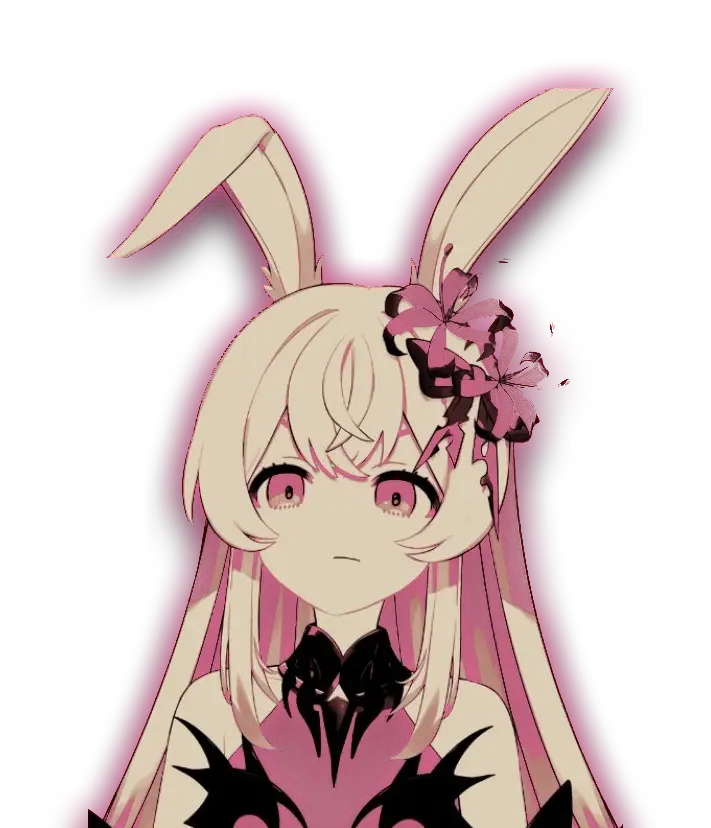
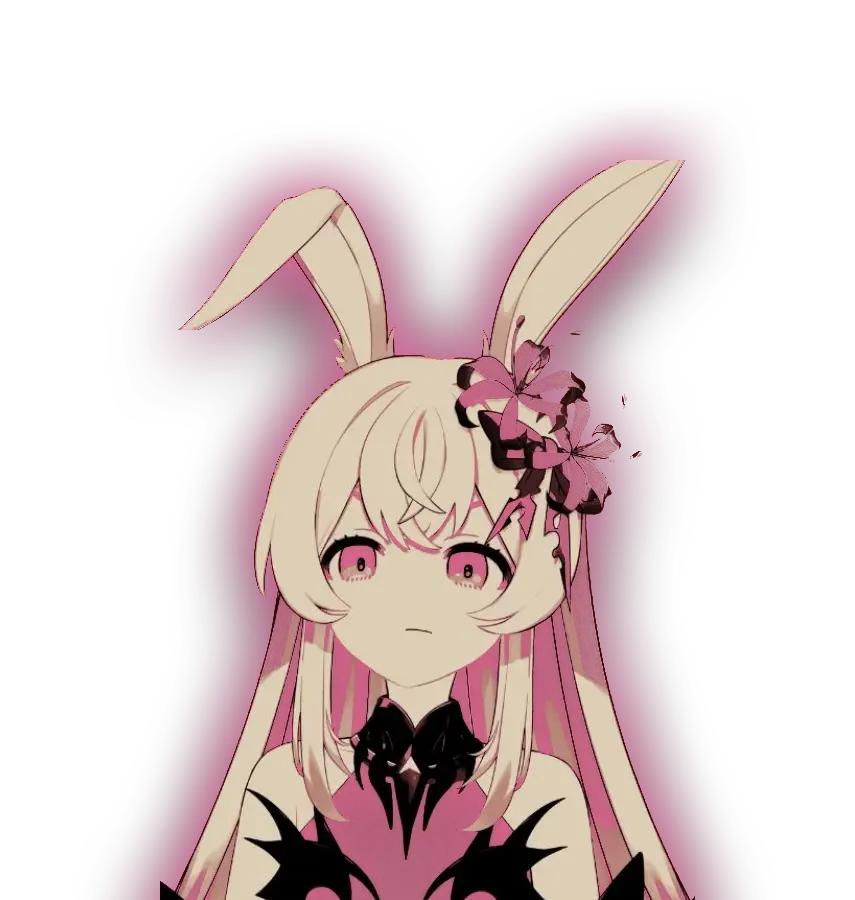
fix(gacha): the reel figure's baked glow was half its intended blur — drop-shadow's length IS sigma
The bake divided both blur radii by two, on the reasonable-sounding belief that `drop-shadow()`
inherits box-shadow's "radius = 2 sigma". It does not, and this is measured rather than argued:
on a hard-edged square in headless Chromium AND Gecko, `drop-shadow(0 0 30px)` is pixel-identical
to `blur(30px)` (RMSE 0.0000, alpha under 0.01 at 62.4 px) and nothing like `blur(15px)` (RMSE
0.0586, under 0.01 at 30.5 px). So the css sigmas are 30 and 22, and in asset space 48 and 35.

Profiled against the prototype's real CSS at the same on-screen character size — mean composite
alpha in distance bands around the silhouette — the shipped asset held ~0.8x of the prototype's
glow within 16 px and then fell off a cliff: 0.19x in the 16-24 px band, 0.04x at 24-32, ZERO
past 32 px where the prototype paints out to ~64. The corrected bake tracks it through the bands
that carry the look (1.25 / 1.24 / 1.07 / 0.87 to 32 px) with a thinner far tail (0.51x at 32-48,
where alpha is ~0.03 — Skia's blur approximation is tighter than a true Gaussian).

Baking the real filter CHAIN (the pink shadow does see the dark one's output) was tried and
rejected on the same measurement: two Gaussian stages compound and overshoot to 1.4-1.5x the
prototype's alpha in every near band. Two independent shadows of the figure is the closer
reproduction, which is all the bake is for.

The bigger blur needs a bigger canvas (PAD 88 to 160, 855x900, ~107 KB), so the character is now
[…]

diff --git a/frontend/src/themes/gacha/art.ts b/frontend/src/themes/gacha/art.ts
@@ -35,18 +35,41 @@
 // `lyra-cutout.webp` is not a resize: it is the reel FIGURE, and its glow is baked in at export time
 // because the §10.1 rider bans the prototype's runtime `filter: drop-shadow(0 10px 30px #0009)
 // drop-shadow(0 0 22px #ff6cae66)` — two static shadows on a large moving image re-rasterize every frame
-// on Gecko. The bake reproduces exactly those two shadows, pre-divided by the figure's DISPLAY scale
-// (~0.65 of the asset at the `--gc-figure-h` default), so what lands on screen matches the prototype's
-// CSS: a CSS blur radius R is a Gaussian of sigma R/2, hence 30px→15→23 and 22px→11→17 in asset space,
-// and the dark shadow's 10px y-offset becomes 15. `PAD` is the canvas the blur needs (3 sigma + offset),
-// added at the top and sides only — the figure is bottom-anchored, so a bottom margin would just lift it
-// off its floor. 711x828, ~97 KB.
+// on Gecko. The bake reproduces those two shadows at the figure's DISPLAY scale (0.622 css px per asset px:
+// a 460 px character from a 740 px source, the `--gc-figure-h` default), so what lands on screen matches
+// what the prototype's CSS would have painted.
+//
+// THE SIGMA, settled by measurement (the G4 Codex round — the first bake halved it, and the halo shipped at
+// half its intended reach). `drop-shadow()`'s blur length IS the Gaussian sigma; it does NOT follow
+// box-shadow's sigma = R/2, which is what the two looking alike invites you to assume. On a hard-edged
+// square, `drop-shadow(0 0 30px)` is PIXEL-IDENTICAL to `blur(30px)` (RMSE 0.0000, alpha under 0.01 at
+// 62.4 px) in BOTH Chromium and Gecko, and nothing like `blur(15px)` (RMSE 0.0586, under 0.01 at 30.5 px).
+// So the css sigmas here are 30 and 22 — not 15 and 11 — and in asset space 30/0.622→48 and 22/0.622→35,
+// with the dark shadow's 10 px y-offset becoming 16.
+//
+// What that was worth, profiled against the prototype's real CSS at the same on-screen character size (mean
+// composite alpha in distance bands around the silhouette): the halved bake held ~0.8x of the prototype's
+// glow within 16 px and then collapsed — 0.19x in the 16-24 px band, 0.04x at 24-32, ZERO past 32 px, where
+// the prototype still paints out to ~64. With the sigmas above it tracks the prototype through the bands
+// that carry the look (1.25 / 1.24 / 1.07 / 0.87 out to 32 px) and keeps a thinner far tail (0.51x at
+// 32-48 px, where alpha is ~0.03) — the one visible residue of Skia's tighter blur approximation.
+//
+// Filters do CHAIN — the pink `drop-shadow()` sees the dark one's OUTPUT, so it is technically cast by the
+// figure PLUS its dark shadow. Baking that faithfully was tried and REJECTED on the same measurement: two
+// true-Gaussian stages compound, and it overshoots to 1.4-1.5x the prototype's mean alpha in every near band
+// (1.39x total glow ink, against 1.12x for the two-independent-shadows form below). Reproducing what the
+// prototype PAINTS is the only thing this bake is for, so the simpler form stays.
+//
+// `PAD` is the canvas the blur needs (3 sigma + offset), added at the top and sides only — the figure is
+// bottom-anchored, so a bottom margin would just lift it off its floor. 855x900, ~107 KB. Growing the pad is
+// what moved `--gc-figure-h` (tokens.css): the character is now 0.82 of the element, so the token rose to
+// keep it exactly the size the eyeball round settled on.
 //
 //   node --input-type=module -e '
 //   import sharp from "sharp";
 //   const S = "../design/prototypes/gacha/uploads/prot/assets/gacha/lyra-cutout.png";
 //   const O = "src/themes/gacha/art/lyra-cutout.webp";
-//   const PAD = 88, SHADOWS = [{s:23,o:.6,dy:15,c:{r:0,g:0,b:0}},{s:17,o:.4,dy:0,c:{r:255,g:108,b:174}}];
+//   const PAD = 160, SHADOWS = [{s:48,o:.6,dy:16,c:{r:0,g:0,b:0}},{s:35,o:.4,dy:0,c:{r:255,g:108,b:174}}];
 //   const fig = await sharp(S).ensureAlpha()
 //     .extend({top:PAD,left:PAD,right:PAD,bottom:0,background:{r:0,g:0,b:0,alpha:0}}).png().toBuffer();
 //   const {width:W,height:H} = await sharp(fig).metadata();

diff --git a/frontend/src/themes/gacha/tokens.css b/frontend/src/themes/gacha/tokens.css
@@ -151,18 +151,21 @@
        * proportion on any viewport; `width: auto` follows.
        *
        * NOTE on the height: the committed cutout carries its glow BAKED IN (§10.1 rider — a static
-       * `drop-shadow()` on a large moving image re-rasterizes per frame on Gecko), which costs ~11% of
-       * transparent margin at the top and sides. So the CHARACTER reads at about 0.89 of whatever
+       * `drop-shadow()` on a large moving image re-rasterizes per frame on Gecko), which costs ~18% of
+       * transparent margin at the top and sides. So the CHARACTER reads at about 0.82 of whatever
        * `--gc-figure-h` says; the token is the element's height, which is the thing CSS can honor.
+       * (That margin GREW with the G4 fix wave — the bake's blur was half the prototype's, so the
+       * corrected glow needs a wider canvas, art.ts. The default below rose from 62% to keep the
+       * character at exactly the size the eyeball round settled on: 62% x 828/900 of a character.)
        *
-       * …and one consequence to know while tuning. The asset is 711x828 (aspect 0.859), so the element
-       * is 0.859x as wide as it is tall, and the overlay clips what does not fit. Above roughly 54% of a
-       * phone's shell (55.1% at 393x830, 53.7% at 360x780) the element is wider than the viewport and
+       * …and one consequence to know while tuning. The asset is 855x900 (aspect 0.95), so the element
+       * is 0.95x as wide as it is tall, and the overlay clips what does not fit. Above roughly 49% of a
+       * phone's shell (49.8% at 393x830, 48.6% at 360x780) the element is wider than the viewport and
        * the OUTER GLOW starts clipping at the sides — the character itself still fits well past that,
-       * which is why the default sits at 62%: a figure sized to keep every last pixel of glow reads
-       * small. Drop to ~54% for a fully-contained glow; raise it for presence. Nothing here breaks
+       * which is why the default sits at 67%: a figure sized to keep every last pixel of glow reads
+       * small. Drop to ~49% for a fully-contained glow; raise it for presence. Nothing here breaks
        * either way — `.gc-reel` is `overflow: hidden`, so the page can never scroll sideways. */
-      --gc-figure-h: 62%; /* element height, % of the shell (the prototype's 84%, re-scoped) */
+      --gc-figure-h: 67%; /* element height, % of the shell (the prototype's 84%, re-scoped) */
       --gc-figure-x: 50%; /* horizontal anchor — the figure is centred on this point */
       --gc-figure-lift: 0px; /* extra rise ABOVE the safe-area floor (0 = standing on it) */
       --gc-figure-dur: 620ms; /* the whole in-hold-out arc (the prototype's own) */
